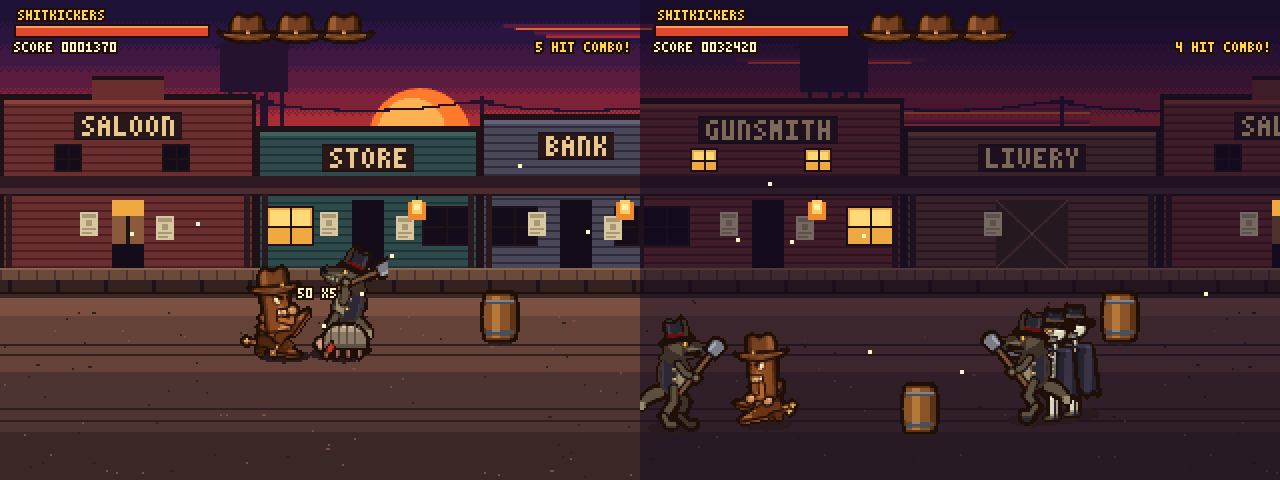
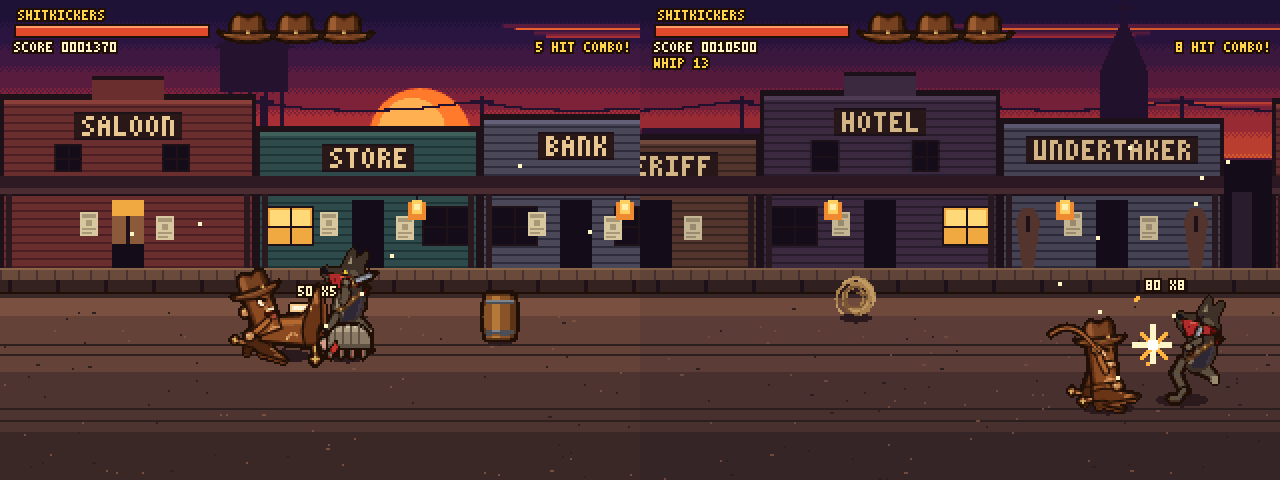
Main Street's gang: bandana outlaw coyotes (Two-Bit stays unique)
The gang was Two-Bit's own drawing in a mangy palette, top hat and
shovel included, so the first stage's boss looked like a common enemy on
the second (the user's report). Their pick, option (a): the mangy
coyotes are now drawn in an outlaw style:
- no topper, ears free;
- a red bandana mask over the snout, its knot and tails behind the head;
- a cartridge bandolier across the chest;
- a Bowie knife where the shovel was. It follows the shovel's angle, so
  every pose (the wind-up, the slash) works unchanged.
Two-Bit keeps the undertaker's topper and the shovel. Both the browser
and the F256 export use the same drawing (boothill.js drawCoyote, STYLE).

Re-exported: Main Street's sprite bank is 78 cells (was 88). Verified in
MAME on Main Street; the browser's autopilot still completes the game.

Claude-Session: https://claude.ai/code/session_01RMmLqVqBwSZvCxXtNYCF8k

Changed region(s): [[0.5, 0.0938, 1.0, 0.9062], [0.1562, 0.5312, 0.3125, 0.7812], [0.7812, 0.0312, 1.0, 0.0938]]

diff --git a/game/js/boothill.js b/game/js/boothill.js
@@ -141,7 +141,12 @@ const CPAL = {
   v0: '#2c2436', v1: '#453850', v2: '#5f4f6c', h0: '#141218', h1: '#2a2630', h2: '#423c4c', band: '#7a2a2a',
   s0: '#4a4a52', s1: '#7a7c86', s2: '#a6a9b4', wd0: '#4a3020', wd1: '#7a5236',
   eyeW: PAL.eyeW, pupil: PAL.pupil, mouth: PAL.mouth, teeth: PAL.teeth, nose: '#141014', star: '#ffd34a',
+  bd0: '#7a1414', bd1: '#b02c2c', bd2: '#d85a4a', bl0: '#4a2e18', bl1: '#6e4626', brass: '#d0a440',
 };
+// 'outlaw': Main Street's gang (the user's pick, 2026-10-14): no topper, a red bandana mask with its tails
+// flying, a cartridge bandolier, and a Bowie knife where Two-Bit has his shovel. The poses are Two-Bit's, so
+// the knife follows the shovel's angle.
+let STYLE = 'twobit';
 const CB = {
   lean: 0, by: 0, legs: [0, 0], shovel: -0.9, grip: [9, -24], arms: 0, mouth: 0, eyes: 'mad', hat: 0, sink: 0, stars: -1, squash: 1,
 };
@@ -174,7 +179,13 @@ function drawCoyote(ctx, o) {
   ctx.fillStyle = CPAL.c3; ell(ctx, 3.6, -25, 3, 7); ctx.fill();          // pale chest
   ctx.fillStyle = CPAL.v1; ctx.beginPath(); ctx.moveTo(-8, -36); ctx.lineTo(2, -36); ctx.lineTo(1, -16); ctx.lineTo(-3, -18); ctx.lineTo(-5, -15); ctx.lineTo(-8, -17); ctx.fill();
   ctx.fillStyle = CPAL.v2; ctx.fillRect(-7, -35, 2, 18);
-  ctx.fillStyle = CPAL.star; ctx.fillRect(-0.6, -29, 1.4, 1.4); ctx.fillRect(-0.6, -24, 1.4, 1.4);  // buttons
+  if (STYLE === 'outlaw') {                          // a bandolier, shoulder to hip, a row of brass
+    ctx.strokeStyle = CPAL.bl0; ctx.lineWidth = 3.4; ctx.beginPath(); ctx.moveTo(-6, -35); ctx.lineTo(6, -18); ctx.stroke();
+    ctx.strokeStyle = CPAL.bl1; ctx.lineWidth = 1.6; ctx.beginPath(); ctx.moveTo(-6, -35); ctx.lineTo(6, -18); ctx.stroke();
+    ctx.fillStyle = CPAL.brass; for (let k = 0; k < 5; k++) ctx.fillRect(-4.6 + k * 2.4, -33 + k * 3.4, 1.2, 1.6);
+  } else {
+    ctx.fillStyle = CPAL.star; ctx.fillRect(-0.6, -29, 1.4, 1.4); ctx.fillRect(-0.6, -24, 1.4, 1.4);  // buttons
+  }
   ctx.restore();
   // head: long snout to the right, tall ears, scruffy cheek
   ctx.save(); ctx.translate(2, -39);
@@ -202,7 +213,22 @@ function drawCoyote(ctx, o) {
     else ctx.fillRect(4.4, -2.4, 1.3, 1.6);
     if (p.eyes === 'mad') { ctx.lineWidth = 1.3; ctx.beginPath(); ctx.moveTo(1.6, -4.6); ctx.lineTo(6.2, -3); ctx.stroke(); }
   }
-  // the battered undertaker's topper
+  if (STYLE === 'outlaw') {
+    // the bandana: over the snout below the eyes, the nose poking out; the knot and two tails behind the head
+    ctx.beginPath(); ctx.moveTo(-5.4, -0.6); ctx.lineTo(3.4, -0.4); ctx.lineTo(12.2, 0.6); ctx.lineTo(11, 3.2);
+    ctx.lineTo(6.4, 7.4 + 1.4 * p.mouth); ctx.lineTo(1.6, 5.6); ctx.lineTo(-5, 3.6); ctx.closePath();
+    ctx.fillStyle = CPAL.bd1; ctx.fill(); ctx.strokeStyle = CPAL.out; ctx.lineWidth = 1; ctx.stroke();
+    ctx.fillStyle = CPAL.bd2; ctx.fillRect(1, 0.4, 7, 1);                                  // a fold catching the light
+    ctx.fillStyle = CPAL.bd0; ctx.fillRect(3, 3.4, 1.2, 1.2); ctx.fillRect(7, 2.6, 1.2, 1.2);   // its spots
+    ell(ctx, -5.6, 1.2, 1.8, 1.6); ctx.fillStyle = CPAL.bd0; ctx.fill(); ctx.stroke();   // the knot
+    for (const [dx, dy] of [[-10.4, 3.4], [-9.4, 6.4]]) {
+      ctx.beginPath(); ctx.moveTo(-6.4, 1.4); ctx.lineTo(dx, dy); ctx.lineTo(dx + 1.6, dy + 1.2); ctx.closePath();
+      ctx.fillStyle = CPAL.bd1; ctx.fill(); ctx.stroke();
+    }
+    ell(ctx, 13.4, 0.3, 1.5, 1.3); ctx.fillStyle = CPAL.nose; ctx.fill();                   // the nose over the mask
+  }
+  // the battered undertaker's topper (Two-Bit's alone)
+  if (STYLE !== 'outlaw') {
   ctx.save(); ctx.translate(-1, -4.6 - p.hat); ctx.rotate(-0.16 - p.hat * 0.04);
   ctx.fillStyle = CPAL.h1; ctx.beginPath(); ctx.moveTo(-4.6, 0); ctx.lineTo(-4, -9); ctx.lineTo(1, -8); ctx.lineTo(4, -10.4); ctx.lineTo(4.4, 0); ctx.closePath(); ctx.fill();
   ctx.strokeStyle = CPAL.out; ctx.lineWidth = 1; ctx.stroke();
@@ -210,9 +236,20 @@ function drawCoyote(ctx, o) {
   ctx.fillStyle = CPAL.band; ctx.fillRect(-4.4, -2.6, 8.8, 1.8);
   ctx.fillStyle = CPAL.h0; ctx.beginPath(); ctx.moveTo(-8, 0.6); ctx.lineTo(8, -0.4); ctx.lineTo(8, 1.4); ctx.lineTo(-8, 2.2); ctx.closePath(); ctx.fill(); ctx.stroke();
   ctx.restore();
+  }
   ctx.restore();   // head
-  // the shovel: a handle through the grip, blade at the far end
   const ca = Math.cos(p.shovel), sa = Math.sin(p.shovel);
+  if (STYLE === 'outlaw') {
+    // the Bowie knife: a short handle in the fist, a guard, a long clip-point blade along the shovel's angle
+    ctx.save(); ctx.translate(gx, gy); ctx.rotate(p.shovel);
+    ctx.fillStyle = CPAL.wd0; ctx.fillRect(-4, -1.2, 5, 2.4); ctx.strokeStyle = CPAL.out; ctx.lineWidth = 1; ctx.strokeRect(-4, -1.2, 5, 2.4);
+    ctx.fillStyle = CPAL.brass; ctx.fillRect(1, -2.4, 1.4, 4.8);
+    ctx.beginPath(); ctx.moveTo(2.4, -1.6); ctx.lineTo(11, -1.6); ctx.lineTo(14.4, -0.2); ctx.lineTo(12, 0.4); ctx.lineTo(11.4, 1.6); ctx.lineTo(2.4, 1.6); ctx.closePath();
+    ctx.fillStyle = CPAL.s1; ctx.fill(); ctx.stroke();
+    ctx.fillStyle = CPAL.s2; ctx.fillRect(3.4, -1, 8, 0.9);
+    ctx.restore();
+  } else {
+  // the shovel: a handle through the grip, blade at the far end
   const end0 = [gx - ca * 10, gy - sa * 10], end1 = [gx + ca * 15, gy + sa * 15];
   limb([end0, end1], 1.8, CPAL.wd1);
   ctx.save(); ctx.translate(end1[0], end1[1]); ctx.rotate(p.shovel);
@@ -220,7 +257,8 @@ function drawCoyote(ctx, o) {
   ctx.fillStyle = CPAL.s1; ctx.fill(); ctx.strokeStyle = CPAL.out; ctx.lineWidth = 1; ctx.stroke();
   ctx.fillStyle = CPAL.s2; ctx.fillRect(1, -2.6, 5, 1.4);
   ctx.restore();
-  // front arm to the shovel
+  }
+  // front arm to the shovel (or the knife)
   limb([[2, -31], [6 + p.arms, -26], [gx + 2, gy]], 2.8, CPAL.c1);
   ell(ctx, gx + 2, gy, 2.2, 2); ctx.fillStyle = CPAL.c2; ctx.fill(); ctx.strokeStyle = CPAL.out; ctx.lineWidth = 1; ctx.stroke();
   ctx.restore();   // lean
@@ -239,8 +277,8 @@ T.BOSS = { FW: 64, FH: 64, OX: 26, OY: 60 };
 const MANGY = { c0: '#3e3228', c1: '#5e5040', c2: '#7c6c56', c3: '#9a8a70', v1: '#2e2834', v2: '#3e3646', band: '#6a1010', eyeW: '#e8cc30' };
 T.buildCoyote = function (variant) {
   const saved = Object.assign({}, CPAL);
-  if (variant === 'mangy') Object.assign(CPAL, MANGY);
-  try { return coyoteFrames(); } finally { Object.assign(CPAL, saved); }
+  if (variant === 'mangy') { Object.assign(CPAL, MANGY); STYLE = 'outlaw'; }   // Main Street's gang: bandana outlaws
+  try { return coyoteFrames(); } finally { Object.assign(CPAL, saved); STYLE = 'twobit'; }
 };
 function coyoteFrames() {
   const B = T.BOSS, mk = o => bake(B.FW, B.FH, B.OX, B.OY, CPAL, ctx => drawCoyote(ctx, o));
